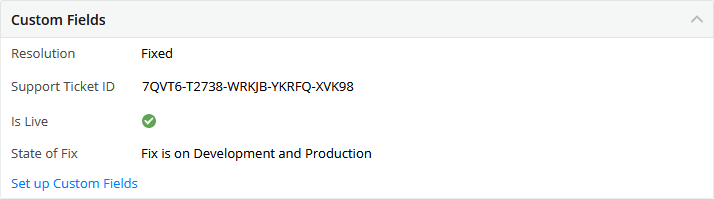
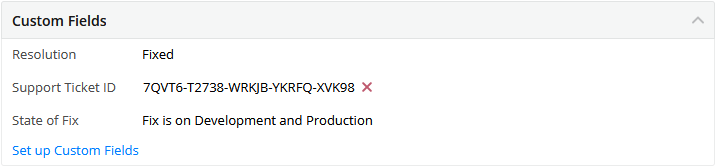
Minor Update To Content & Assets

diff --git a/the-qa-handbook.html b/the-qa-handbook.html
@@ -261,13 +261,8 @@
                       <h5>State</h5>
                       <p>Throughout its lifecycle, a defect will transition through several states.</p>
                       <ul>
-                        <li><strong>Open:</strong> A newly logged defect. Not yet confirmed so it could potentially be invalid, a duplicate, it may need more information, etc.</li>
+                        <li><strong>New:</strong> A newly logged defect. Not yet confirmed so it could potentially be invalid, a duplicate, it may need more information, etc.</li>
                         <li><strong>Confirmed:</strong> A defect that has been confirmed to be valid by one of the developers.</li>
-                        <li>
-                          <strong>Infrastructure Requirements:</strong> If a developer encounters an infrastructure issue that prevents them from starting work on the defect, then they move the card to this state. An infrastructure requirement may
-                          be, for example, a lack of permissions to access a server or a chamber, a DNS issue that may prevent the developer from connecting to the VPN, or client data that may need to be wiped from an import chamber prior to starting
-                          work on the defect.
-                        </li>
                         <li><strong>In Progress:</strong> A developer has started fixing this defect.</li>
                         <li>
                           <strong>Awaiting Merge:</strong> A developer has finished fixing this defect and is now waiting for the changes to be merged to the branch that will be deployed to the environment on which the defect needs to be retested.
@@ -282,9 +277,8 @@
                         </li>
                         <li><strong>Awaiting Merge To Production:</strong> This state is for defects that have been fix verified and that are in the queue to be deployed to production sites.</li>
                         <li>
-                          <strong>Done:</strong> The plan is for the Done state to be automated in the same way that the Resolved state is; once the fix has been verified, while the defect is in the Awaiting Merge To Production state, the card will
-                          be automatically marked Done by the GitLab integration after the changes have been deployed to production sites. Currently this doesn’t work this way; currently defects need to be marked Done manually once the fix has been
-                          verified during retesting and regression testing.
+                          <strong>Done:</strong> This state is automated in the same way that the Resolved state is; once the fix has been verified, while the defect is in the Awaiting Merge To Production state, the card will automatically be marked
+                          Done by the GitLab integration after the changes have been deployed to production sites.
                         </li>
                       </ul>
                       <p></p>
@@ -300,13 +294,15 @@
                     <li>
                       <h5>Assignments</h5>
                       <p>
-                        Teams can be assigned to defects and, in most cases, it will only be possible to assign a single team per defect. This is normally done after logging a new defect; if it is not obvious who the assigned developer should be,
-                        then the defect gets assigned to either the Developers team or the Portal Developers team. Do not speculate; only assign a defect to a specific developer if it was found in code that they wrote. Assigning a team to a defect,
-                        and generally to a targetprocess entity, can kick off a team workflow which can divide a state into multiple sub-states.
+                        Teams can be assigned to defects and, in most cases, it will only be possible to assign a single team per defect. Assigning a team to a defect, and generally to a targetprocess entity, can kick off a team workflow which can
+                        divide a state into multiple sub-states, as can be seen below. Only assign teams to targetprocess entities if instructed to do so by the QA manager.
                       </p>
                       <img src="assets\img\04-workflows\03-logging-defects\05-team-assignments.png" alt="Logging Defects: Team Assignments" class="img-fluid img-container" />
                       <p></p>
-                      <p>Apart from team assignments, individual people can be assigned to specific roles. More than one person can be assigned to a single role.</p>
+                      <p>
+                        Apart from team assignments, individual people can be assigned to specific roles. More than one person can be assigned to a single role. Only assign individual people to targetprocess entities if instructed to do so by the QA
+                        manager.
+                      </p>
                       <p>
                         The people assigned to the role that is responsible for the defect’s current state will appear in a heavier font. For example, in the next image, the defect is in the Parked state and the role responsible for the Parked state
                         in this example is the Support Person role, so Colin’s name appears in bold text.
@@ -322,16 +318,19 @@
                       <p></p>
                       <p>The seven severities currently defined in targetprocess are the following:</p>
                       <ul>
-                        <li><strong>Enhancement:</strong> This severity is reserved for nice-to-have features. Defects that usually fall into this category are quality-of-life changes that enhance the user's experience.</li>
+                        <li>
+                          <strong>Enhancement:</strong> This severity is reserved for nice-to-have features. Defects that usually fall into this category are quality-of-life changes that enhance the user's experience. Occasionally, missing features
+                          that would improve on an MVP (Minimum Viable Product) may fall into this category as well.
+                        </li>
                         <li><strong>Trivial:</strong> This severity is mostly for typos and minute cosmetic defects.</li>
                         <li><strong>Minor:</strong> Reserved for minor functionality issues and more noticeable cosmetic defects.</li>
                         <li><strong>Average:</strong> The default defect severity. Average is used for garden-variety functionality issues.</li>
                         <li><strong>Major:</strong> Reserved for major functionality issues. These defects will usually throw an exception.</li>
                         <li>
                           <strong>Critical:</strong> The defects that fall into this category are severe performance issues that cause the application to freeze or hang, runtime failures that cause the application to crash, serious functionality
-                          issues that prevent users from progressing with their work, exploitable security holes, data loss, data corruption, defects that cause clinical risk.
+                          issues that prevent users from progressing with their work, exploitable security holes, data loss, data corruption, defects with associated clinical risk, et cetera.
                         </li>
-                        <li><strong>Blocker:</strong> This is reserved for defects that prevent the progress of internal testing.</li>
+                        <li><strong>Blocker:</strong> This is reserved for defects that prevent the progress of internal testing or for showstoppers that are impeding a rollout.</li>
                       </ul>
                       <p></p>
                       <p>Business values are defined by the following Risk Assessment Matrix. Each business value is determined by the combination of the defect’s severity and its likelihood of occurrence.</p>
@@ -359,7 +358,6 @@
                           <strong>Support Ticket ID:</strong> If a request for QA review includes a support ticket ID, then that ID needs to be copied over to the defect logged off the back of that request. More information about this is available in
                           the section detailing the Requests For QA Review workflow.
                         </li>
-                        <li><strong>Is Live:</strong> A boolean (true or false) field that specifies whether the logged defect reproduces in production code or not. The default value is “false”.</li>
                         <li>
                           <strong>State Of Fix:</strong> The value of this field never needs to be set manually; it is controlled by an integration with GitLab, and the value will automatically be set to “Fix is on Development” when the fix for the
                           defect has been merged to the development branch and to “Fix is on Development and Production” when the fix for the defect has been deployed to the production environment.
@@ -371,7 +369,7 @@
                     </li>
                     <li>
                       <h5>Relations</h5>
-                      <p>Relations in targetprocess are symmetrical links that connect two entities. They can be can be of one of five types: Relation, Dependency, Blocker, Link and Duplicate.</p>
+                      <p>Relations in targetprocess are symmetrical links that connect two entities. They can be of one of five types: Relation, Dependency, Blocker, Link and Duplicate.</p>
                       <p>A relation between two targetprocess entities is similar to a flow, so if a defect was logged off the back of a request, for instance, then the defect will be linked by an outbound relation from the request.</p>
                       <p></p>
                       <img src="assets\img\04-workflows\03-logging-defects\10-outbound-relations.png" alt="Logging Defects: Outbound Relations" class="img-fluid img-container" />
@@ -412,7 +410,7 @@
                       </ul>
                     </li>
                     <li>
-                      <strong>Syntax:</strong> Syntax is essentially about what word comes before and after another word. Please make sure your sentences don't end up sounding like tongue twisters. English can be weird. It can be understood through
+                      <strong>Syntax:</strong> Syntax is essentially about what word comes before and after another word. Please make sure your sentences don't end up sounding like tongue twisters. English can be weird; it can be understood through
                       tough thorough thought, though.
                     </li>
                     <li><strong>Semantics:</strong> Semantics are concerned with the meaning of signifiers such as words, phrases, signs, and symbols. In terms of meaning, some very important guidelines on logging defects are:</li>
@@ -427,7 +425,7 @@
                       </li>
                     </ul>
                     <span
-                      >I will end this section with a programming joke: A woman asks her husband, a programmer, “Could you please go shopping for me and buy one carton of milk? And if they have eggs, please get six.” A short time later, the
+                      >I will end this section with a programming joke: A woman asks her husband, a programmer, “Could you please go shopping for me, and buy one carton of milk? And if they have eggs, please get six.” A short time later, the
                       programmer comes back with six cartons of milk. His wife asks, “Why did you buy six cartons of milk?” to which the programmer replies, “They had eggs.”.</span
                     >
                   </ul>
